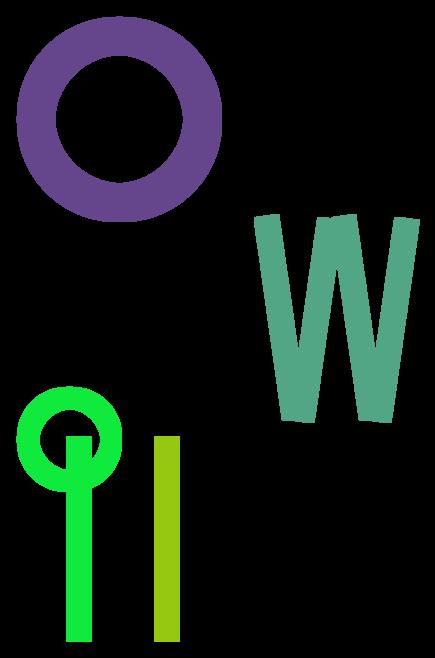
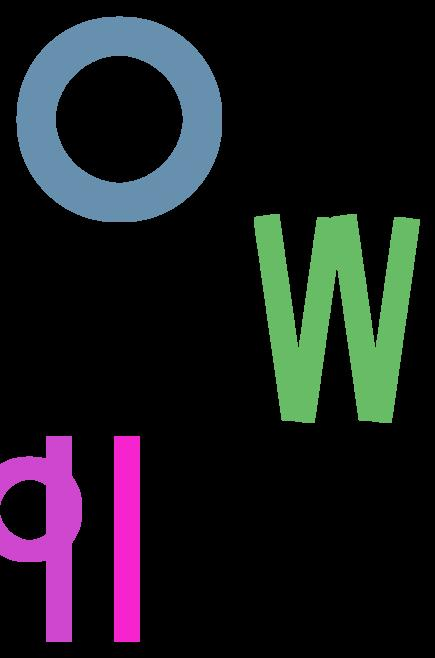
pour touver deplacement du d

Changed region(s): [[0.0, 0.5775, 0.4184, 1.0], [0.0299, 0.0, 0.508, 0.3343], [0.5678, 0.304, 0.9862, 0.6383]]

diff --git a/labo/src/tp1/LetterFactory.java b/labo/src/tp1/LetterFactory.java
@@ -73,8 +73,9 @@ public final class LetterFactory {
         BaseShape Circle = new Circle(halfMaxHeight/2);
         BaseShape centreStripe= new Circle((halfMaxHeight/2)*2/3);
         Circle.removeAll(centreStripe.getCoords());
-        Circle.rotate(degrees0).translate(new Point2d(0.0, halfMaxHeight*1000));
-        mainStripe.add(Circle);
+        //retourne dans un autre BaseShape les list de point
+        BaseShape cercleTranslate=Circle.translate(new Point2d(-20.0, 70.0));
+        mainStripe.add(cercleTranslate);
 
         return mainStripe;
     }
